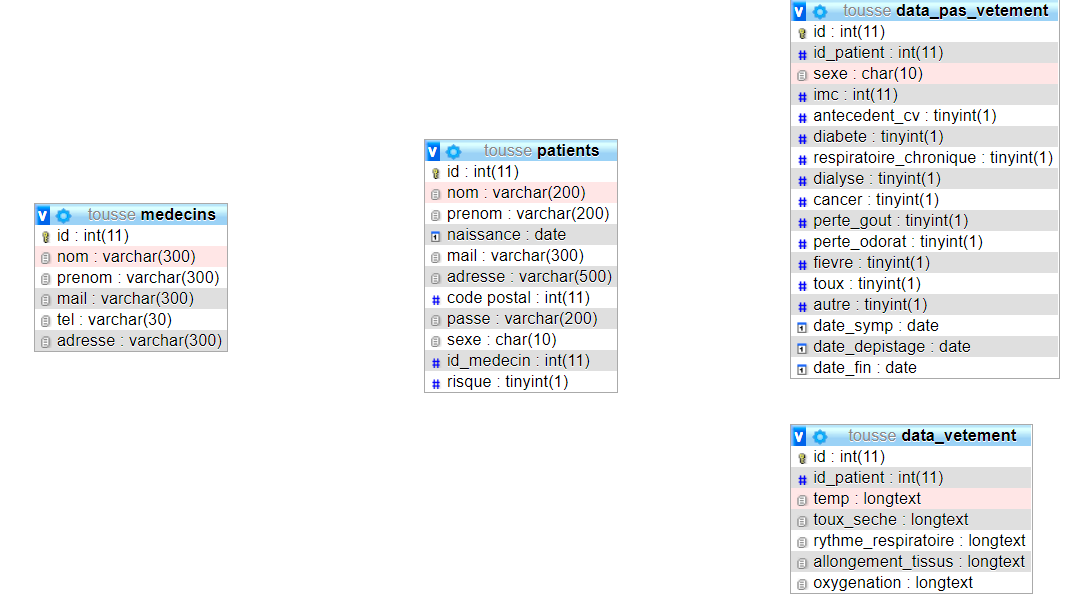
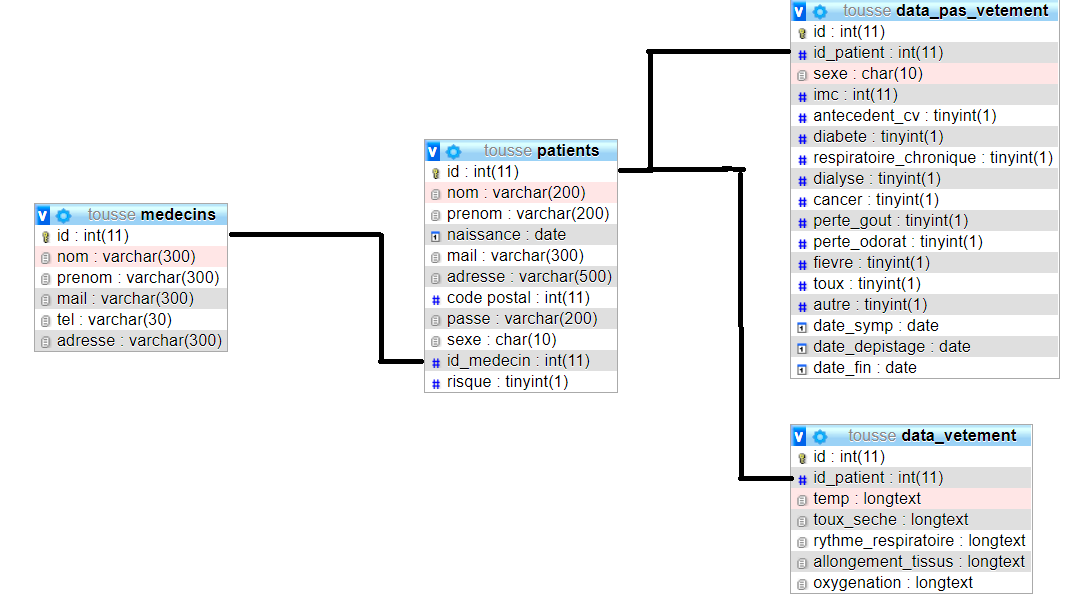
inscription/connexion

Changed region(s): [[0.5843, 0.0593, 0.7381, 0.8007], [0.2153, 0.3558, 0.3998, 0.6227]]

diff --git a/templates/medecin.php b/templates/medecin.php
@@ -1,13 +1,18 @@
 <?php
-
-if(isset($_POST['search']))
+// Si la page est appelée directement par son adresse, on redirige en passant pas la page index
+if (basename($_SERVER["PHP_SELF"]) != "index.php")
 {
-    $valueToSearch = $_POST['valueToSearch'];
+    header("Location:../index.php?view=medecin");
+    die("");
+}
+
+if(isset($_GET['search']))
+{
+    $valueToSearch = $_GET['search'];
     // search in all table columns
     // using concat mysql function
-    $query = "SELECT * FROM `patients` WHERE CONCAT(`id`, `nom`, `prenom`) LIKE '%".$valueToSearch."%'";
+    $query = "SELECT * FROM `patients` WHERE nom LIKE '".$valueToSearch."%' OR prenom LIKE '".$valueToSearch."%'";
     $search_result = filterTable($query);
-    
 }
  else {
     $query = "SELECT * FROM `patients`";
@@ -21,13 +26,12 @@ function filterTable($query)
     $filter_Result = mysqli_query($connect, $query);
     return $filter_Result;
 }
-
 ?>
 
 <!DOCTYPE html>
 <html>
     <head>
-        <title>test Deroulant</title>
+        <title>Vue Médecin</title>
         <style>
             table,tr,th,td
             {
@@ -42,40 +46,45 @@ function filterTable($query)
     <body>
         <br>
         <div class="container">
-            <form action="testderoulant.php" method="post">
+            <form action="controleur.php" method="get">
             <input type="text" name="valueToSearch" placeholder="Value To Search"><br><br>
-            <input type="submit" name="search" value="Filter"><br><br>
-            
+            <input type="submit" name="action" value="Filter"><br><br>
+            </form>
             <table>
                 <tr>
                     <th>Id</th>
                     <th>Nom</th>
                     <th>Prénom</th>
+					<th>Sexe</th>
+					<th>Naissance</th>
+					<th>Adresse Mail</th>
+					<th>Téléphone</th>
 					<th>Fiche</th>
                 </tr>
 
       <!-- populate table from mysql database -->
-                <?php while($row = mysqli_fetch_array($search_result)):?>
-				<a href='http://tousseanticovid/'>		
+                <?php while($row = mysqli_fetch_array($search_result)):?>	
 					<tr>
 						<td><?php echo $row['id'];?></td>
 						<td><?php echo $row['nom'];?></td>
 						<td><?php echo $row['prenom'];?></td>
-						<td><a href='http://tousseanticovid/'>fiche</a></td>
+						<td><?php echo $row['sexe'];?></td>
+						<td><?php echo $row['naissance'];?></td>
+						<td><?php echo $row['mail'];?></td>
+						<td><?php echo $row['tel'];?></td>
+						<td>
+							<form action="controleur.php" method="get">
+								<input type="text" name="id" value=<?php echo $row['id']; ?> style="display:none">
+								<input type="submit" name="action" value="Afficher">
+							</form>
+						</td>
 					</tr>
 				
                 <?php endwhile;?>
             </table>
-        </form>
+        
         </div>
         
-    <script>
-	jQuery(document).ready(function($) {
-    $(".clickable-row").click(function() {
-        window.location = $(this).data("href");
-		});
-	});
-	</script>
     <script src="https://code.jquery.com/jquery-3.2.1.slim.min.js" integrity="sha384-KJ3o2DKtIkvYIK3UENzmM7KCkRr/rE9/Qpg6aAZGJwFDMVNA/GpGFF93hXpG5KkN" crossorigin="anonymous"></script>
     <script src="https://cdnjs.cloudflare.com/ajax/libs/popper.js/1.12.9/umd/popper.min.js" integrity="sha384-ApNbgh9B+Y1QKtv3Rn7W3mgPxhU9K/ScQsAP7hUibX39j7fakFPskvXusvfa0b4Q" crossorigin="anonymous"></script>
     <script src="https://maxcdn.bootstrapcdn.com/bootstrap/4.0.0/js/bootstrap.min.js" integrity="sha384-JZR6Spejh4U02d8jOt6vLEHfe/JQGiRRSQQxSfFWpi1MquVdAyjUar5+76PVCmYl" crossorigin="anonymous"></script>

diff --git a/templates/inscription.php b/templates/inscription.php
@@ -5,22 +5,45 @@ if (basename($_SERVER["PHP_SELF"]) != "index.php")
 	header("Location:../index.php?view=inscription");
 	die("");
 }
-?>
+?> 
 
 <main>
 	<h2>Vous pouvez vous inscrire gratuitement en remplissant le formulaire suivant :</h2>
 
     <!-- on rentre dans le formulaire pour s'inscrire et renseigner ses informations personnelles -->
 	<form method="POST" action="controleur.php" id="formulaire">
-	    <label for='pseudo'>Votre pseudo :</label><input id="pseudo" type="text" name="pseudo" placeholder="Gold Roger" maxlength="30" /><br>
-	    
-	    <label for='pass1'>Votre mot de passe :</label><input id='pass1' type="password" name="pass1" /><br>
-
-	    <label for='pass2'>Confirmez votre mot de passe :</label><input id='pass2' type="password" name="pass2" /><br>
-
-	    <label for='email'>Votre adresse email :</label><input id='email' type="email" name="email" placeholder="martin.martin@martin.com" size="40" /><br>
+		<label for='nom'>Votre nom :</label><input id='nom' type="text" name="nom" maxlength="40"/><br>
 		
-	    Vous consentez à accepter l'utilisation de vos données dans le cadre de la RGPD :
+		<label for='prenom'>Votre prénom :</label><input id='prenom' type="text" name="prenom" maxlength="40"/><br>
+		
+	    <label for='mail'>Votre adresse mail :</label><input id="mail" type="text" name="mail" maxlength="40" /><br>
+		
+		<label for='tel'>Votre numéro de téléphone :</label><input id='tel' type="text" name="tel" /><br>
+	    
+	    <label for='passe1'>Votre mot de passe :</label><input id='passe1' type="password" name="passe1" /><br>
+
+	    <label for='passe2'>Confirmez votre mot de passe :</label><input id='passe2' type="password" name="passe2" /><br>
+		
+		Informations complémentaires : </br>
+		
+		<label for='naissance'>Votre date de naissance :</label><input id='naissance' type="text" name="naissance" /><br>
+		
+		<label for='secu'>Votre numéro de sécurité sociale :</label><input id='secu' type="text" name="secu" /><br>
+		
+		<label for='adresse'>Votre adresse postale :</label><input id='adresse' type="text" name="adresse" /> <label for='code_postal'>Votre code postal :</label><input id='code_postal' type="text" name="code_postal" /><br>
+		
+		<label for='sexe'>Votre sexe :</label>  <input type="checkbox" id="homme" name="sexe" value="M"> <label for="homme">Homme</label>
+												<input type="checkbox" id="femme" name="sexe" value="F"> <label for="femme">Femme</label>
+												<input type="checkbox" id="neutre" name="sexe" value="N"> <label for="neutre">Autre</label>
+		</br></br>
+		
+		Votre Médecin traitant : </br>
+		
+		<label for='nom_medecin'> Nom :</label><input id='nom_medecin' type="text" name="nom_medecin" maxlength="40"/>
+		
+		<label for='prenom_medecin'>Prénom :</label><input id='prenom_medecin' type="text" name="prenom_medecin" maxlength="40"/></br>
+		
+	    Vous consentez à accepter l'utilisation de vos données dans le cadre de la RGPD : </br>
 	    <!-- par défaut on considère que l'utilisateur valide l'utilisation de ses données personnelles -->
 	    <input type="checkbox" name="coche" id="coche" checked="checked"/>
 	    <label for="coche">J'autorise ce site à utiliser mes données personnelles</label><br>

diff --git a/controleur.php b/controleur.php
@@ -27,11 +27,11 @@ if ($action = valider("action"))
 	{
 		case 'Connexion':
 			// On verifie la presence des champs login et passe
-			if ($pseudo = valider("pseudo") AND $pass = valider("pass"))
+			if ($mail = valider("mail") AND $passe = valider("passe"))
 			{
 				// On verifie l'utilisateur, et on crée des variables de session si tout est OK
 				// Cf. maLibSecurisation
-				$register = verifUser($pseudo,$pass,valider("coche"));
+				$register = verifUser($mail,$passe,valider("coche"));
 				if ($register)
 					$qs = "?view=accueil";
 				else
@@ -47,14 +47,20 @@ if ($action = valider("action"))
 		break;
 
 		case "Inscription":
-			if ($pseudo = valider('pseudo','POST') AND $email = valider('email','POST')
-			AND $pass1 = valider('pass1','POST') AND $pass2 = valider('pass2','POST'))
+			if ($nom = valider('nom','POST') AND $prenom = valider('prenom','POST')
+			AND $mail = valider('mail','POST') AND $tel = valider('tel','POST')
+			AND $passe1 = valider('passe1','POST') AND $passe2 = valider('passe2','POST')
+			AND $naissance = valider('naissance','POST') AND $secu = valider('secu','POST')
+			AND $adresse = valider('adresse','POST') AND $code_postal = valider('code_postal','POST')
+			AND $sexe = valider('sexe','POST') AND $nom_medecin = valider('nom_medecin','POST')
+			AND $prenom_medecin = valider('prenom_medecin','POST'))
 			{
-				if ($pass1 == $pass2)
+				if ($passe1 == $passe2)
 				{
-					if(!findUser($pseudo))
+					if(!findUser($mail))
 					{
-						addUser($pseudo,$pass1,$email);
+						$id_medecin = findMedecin($nom_medecin,$prenom_medecin);
+						addUser($nom,$prenom,$mail,$tel,$passe1,$naissance,$secu,$adresse,$code_postal,$sexe,$id_medecin);
 						$qs = "?view=accueil";
 					}
 					else
@@ -112,6 +118,14 @@ if ($action = valider("action"))
 			if ($pseudo = valider('pseudo') AND $email = valider('email'))
 			$qs = "?view=connexion";
 		break;
+		
+		case "Filter":
+			if ($valueToSearch = valider('valueToSearch'))
+			$qs = "?view=medecin&search=".$valueToSearch;
+		
+		case "Afficher":
+			if ($id = valider('id'))
+			$qs = "?view=fiche_patient&id=".$id;
 	}
 }
 $urlBase = dirname($_SERVER["PHP_SELF"]) . "index.php";

diff --git a/libs/libModele.php b/libs/libModele.php
@@ -7,15 +7,21 @@ include_once("libRequest.php");
 
 /*** Fonctions pour l'interface d'inscription : ***/
 
-function addUser($pseudo,$pass,$email)
+function addUser($nom,$prenom,$mail,$tel,$passe1,$naissance,$secu,$adresse,$code_postalt,$sexe,$id_medecin,$risque=0)
 {
-	$SQL = "INSERT INTO membres (pseudo,pass,email) VALUES ('".$pseudo."','".$pass."','".$email."')";
+	$SQL = "INSERT INTO patients (nom,prenom,mail,tel,passe,naissance,secu,adresse,code_postal,sexe,id_medecin,risque) VALUES ('".$nom."','".$prenom."','".$mail."','".$tel."','".$passe1."','".$naissance."','".$secu."','".$adresse."','".$code_postalt."','".$sexe."','".$id_medecin."','".$risque."')";
 	return SQLInsert($SQL);
 }
 
-function findUser($pseudo)
+function findUser($mail)
 {
-	$SQL = "SELECT id FROM membres WHERE pseudo='".$pseudo."'";
+	$SQL = "SELECT id FROM patients WHERE mail='".$mail."'";
+	return SQLGetCHamp($SQL);
+}
+
+function findMedecin($nom_medecin,$prenom_medecin)
+{
+	$SQL = "SELECT id FROM medecins WHERE nom='".$nom_medecin."' AND prenom='".$prenom_medecin."'";
 	return SQLGetCHamp($SQL);
 }
 
@@ -187,7 +193,7 @@ function autoriserUtilisateur($idUser)
 
 /*** Fonctions de vérification : ***/
 
-function verifUserBdd($login,$passe)
+function verifUserBdd($mail,$passe)
 {
 	// Vérifie l'identité d'un utilisateur 
 	// dont les identifiants sont passes en paramètre
@@ -196,7 +202,7 @@ function verifUserBdd($login,$passe)
 	// On utilise SQLGetCHamp
 	// si on avait besoin de plus d'un champ
 	// on aurait du utiliser SQLSelect
-	$SQL = "SELECT id FROM membres WHERE pseudo='".$login."' AND pass='".$passe."'";
+	$SQL = "SELECT id FROM patients WHERE mail='".$mail."' AND passe='".$passe."'";
 	return SQLGetCHamp($SQL);
 }
 

diff --git a/libs/libSecurity.php b/libs/libSecurity.php
@@ -18,27 +18,27 @@ include_once "libModele.php";	// Car on utilise la fonction connecterUtilisateur
  * @param string $pass
  * @return false ou true ; un effet de bord est la création de variables de session
  */
-function verifUser($pseudo,$pass,$check=off)
+function verifUser($mail,$passe,$check=off)
 {
-	$res = verifUserBDD($pseudo,$pass);
+	$res = verifUserBDD($mail,$passe);
 	if ($res != false)
 	{
-		$_SESSION['pseudo']=$pseudo;
+		$_SESSION['mail']=$mail;
 		$_SESSION['id']=$res;
 		$_SESSION['heureConnexion']=date("H:i:s");
-		$_SESSION['isAdmin']=isAdmin($res);
+	//	$_SESSION['isAdmin']=isAdmin($res);
 		$_SESSION['isConnected']=true;
 
 		if ($check == "on")
 		{
-			setcookie('pseudo',$pseudo,time() + 30*24*3600,null,null,false,true);
-            setcookie('pass',$pass,time() + 30*24*3600,null,null,false,true);
+			setcookie('mail',$mail,time() + 30*24*3600,null,null,false,true);
+            setcookie('passe',$passe,time() + 30*24*3600,null,null,false,true);
             setcookie('coche','checked',time() + 30*24*3600,null,null,false,true);
 		}
 		else
 		{
-			setcookie('pseudo');
-            setcookie('pass');
+			setcookie('mail');
+            setcookie('passe');
             setcookie('coche');
 		}
 

diff --git a/templates/connexion.php b/templates/connexion.php
@@ -12,14 +12,14 @@ if (basename($_SERVER["PHP_SELF"]) != "index.php")
 
 	<form method="GET" action="controleur.php" id="formulaire">  
         <div>       
-    	    <label for='pseudo'>Votre pseudo :</label>
-    	    <input id='pseudo' type="text" name="pseudo" <?php if (isset($_COOKIE['pseudo'])) echo "value=\"".$_COOKIE['pseudo']."\""; ?> />
+    	    <label for='pseudo'>Votre adresse mail :</label>
+    	    <input id='pseudo' type="text" name="mail" <?php if (isset($_COOKIE['mail'])) echo "value=\"".$_COOKIE['mail']."\""; ?> />
         </div>
         <br>
 
         <div>
     	    <label for='pass'>Votre mot de passe :</label>
-    	    <input id='pass' type="password" name="pass" value=<?php if (isset($_COOKIE['pass'])) {echo $_COOKIE['pass'];} else {echo '""';}?> />
+    	    <input id='pass' type="password" name="passe" value=<?php if (isset($_COOKIE['passe'])) {echo $_COOKIE['passe'];} else {echo '""';}?> />
         </div>
         <br>
 

diff --git a/index.php b/index.php
@@ -33,12 +33,12 @@ switch($view)
 		include("templates/accueil.php");
 	break;
 
-	case "jouer" : 
-		include("templates/jouer.php");
+	case "medecin" : 
+		include("templates/medecin.php");
 	break; 
 
-	case "apprendre" : 
-		include("templates/apprendre.php");
+	case "fiche_patient" : 
+		include("templates/fiche_patient.php");
 	break;
 
 	case "exercices" :

diff --git a/config.php b/config.php
@@ -2,5 +2,5 @@
 $BDD_host="localhost";
 $BDD_user="root";
 $BDD_password=""; // vide sous windows
-$BDD_base="awale"; // nom de la base de données
+$BDD_base="tousse"; // nom de la base de données
 ?>
